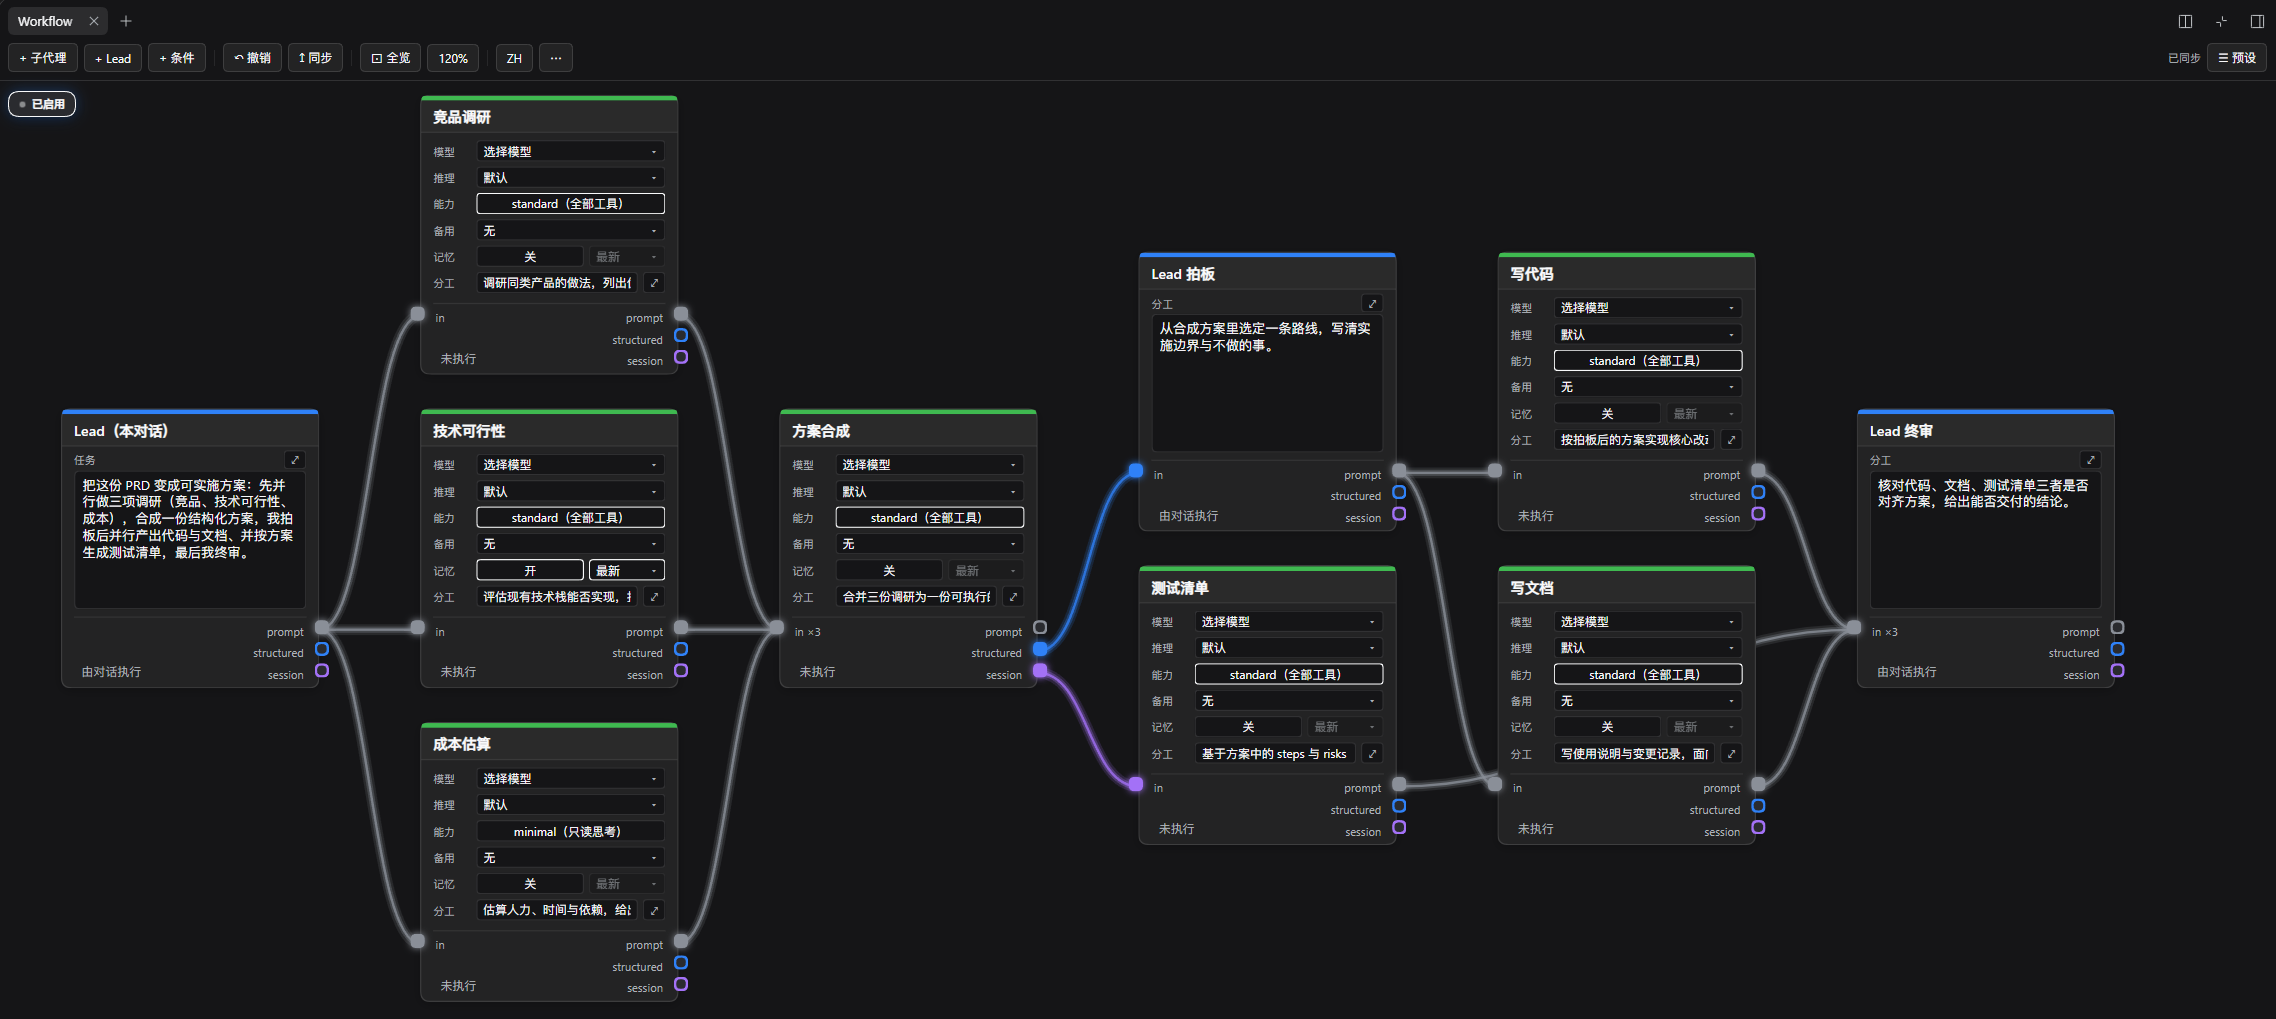
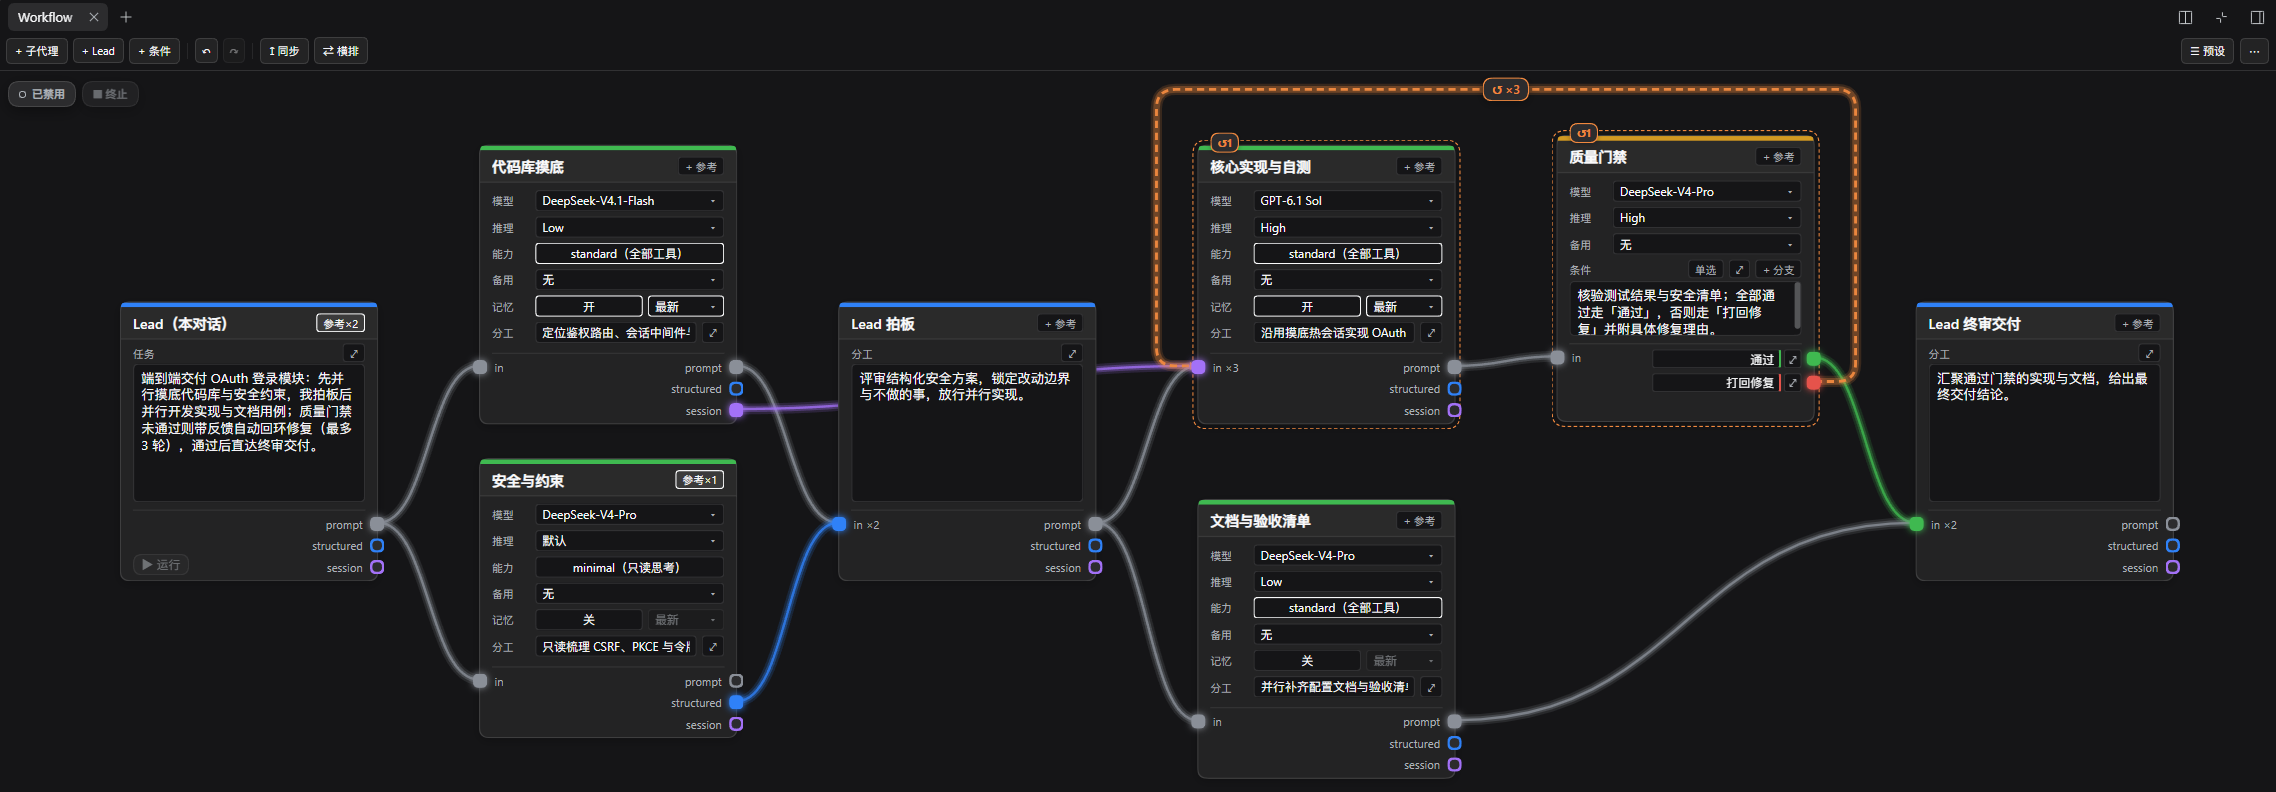
feat(ui): upgrade showcase loop template, keep stop pill always visible & refresh hero screenshots

diff --git a/client.js b/client.js
@@ -1126,17 +1126,25 @@ window.__ModuleLoader__.load({
       };
     }
 
-    /** Compute unified Stop button visibility, label and tooltip across running & waitingLead states. */
+    /** Compute unified Stop button state across idle, running & waitingLead modes. */
     function stopButtonState({ sessionRunning, runningNodesCount, waitingLead, triggering, stopping, lang }) {
       const en = lang === 'en';
       const hasRunning = Boolean(sessionRunning || triggering || Number(runningNodesCount) > 0);
       const hasWaiting = Boolean(waitingLead);
       if (!hasRunning && !hasWaiting) {
-        return { visible: false, disabled: true, mode: 'idle', label: '', title: '' };
+        return {
+          visible: true,
+          active: false,
+          disabled: true,
+          mode: 'idle',
+          label: en ? '⏹ Stop' : '⏹ 终止',
+          title: en ? 'No running or paused workflow to stop' : '当前没有运行中或等待拍板的任务',
+        };
       }
       const mode = hasRunning ? 'running' : 'waiting';
       return {
         visible: true,
+        active: true,
         disabled: Boolean(stopping),
         mode,
         label: stopping
@@ -2057,50 +2065,100 @@ window.__ModuleLoader__.load({
         {
           id: 'lead', kind: 'lead', label: 'Lead', y: 0,
           task: en
-            ? 'Implement the requested change and verify with tests: if checks fail, automatically loop back with feedback to fix (up to 3 retries), then hand off to me for final review.'
-            : '实现目标功能并跑测试验证：若测试或检查不通过，自动带着失败原因回环修改（最多 3 次），全部通过后交我终审交付。',
+            ? 'Ship OAuth login end-to-end: scan codebase and security constraints in parallel, pause for my sign-off, build core code and tests/docs concurrently with an automated retry loop if checks fail, then deliver to final review.'
+            : '端到端交付 OAuth 登录模块：先并行摸底代码库与安全约束，我拍板后并行开发实现与文档用例；质量门禁未通过则带反馈自动回环修复（最多 3 轮），通过后直达终审交付。',
+          refs: ['AGENTS.md', 'docs/auth-spec.md'],
           provider: '', model: '', role: '',
         },
         {
-          id: 'lp_impl', kind: 'agent', y: 0,
-          label: en ? 'Implement' : '编写实现',
-          provider: '', model: '', reasoning: '', preset: 'standard', keepSession: false,
+          id: 'lp_scan', kind: 'agent', y: 0,
+          label: en ? 'Codebase Scan' : '代码库摸底',
+          provider: '', model: '', reasoning: '', preset: 'standard', keepSession: true,
           role: en
-            ? 'Implement the requested change cleanly. When invoked on a retry round, focus directly on fixing the reported issues and list modified files.'
-            : '按需求完成代码或文档实现；若处于回环修正轮次，针对打回理由直接定点修复并列出改动清单。',
+            ? 'Locate auth routes, session middleware and conventions; keep warm session for Core Implement.'
+            : '定位鉴权路由、会话中间件与工程约定，保留热会话供核心实现无缝续接。',
         },
         {
-          id: 'lp_test', kind: 'agent', y: 0,
-          label: en ? 'Test & Verify' : '测试与检查',
+          id: 'lp_risk', kind: 'agent', y: 100,
+          label: en ? 'Security Spec' : '安全与约束',
+          provider: '', model: '', reasoning: '', preset: 'minimal', keepSession: false,
+          refs: ['docs/security.md'],
+          role: en
+            ? 'Read-only threat check (CSRF, PKCE, token rotation); output structured JSON spec.'
+            : '只读梳理 CSRF、PKCE 与令牌轮换约束，输出结构化 JSON 方案。',
+        },
+        {
+          id: 'lp_signoff', kind: 'lead', y: 0,
+          label: en ? 'Lead Sign-Off' : 'Lead 拍板',
+          provider: '', model: '',
+          role: en
+            ? 'Review structured spec, confirm scope and non-goals, then release parallel delivery.'
+            : '评审结构化安全方案，锁定改动边界与不做的事，放行并行实现。',
+        },
+        {
+          id: 'lp_impl', kind: 'agent', y: 0,
+          label: en ? 'Core Implement' : '核心实现与自测',
+          provider: '', model: '', reasoning: '', preset: 'standard', keepSession: true,
+          role: en
+            ? 'Continue inside scan session to implement OAuth flow and run tests; on retry rounds fix reported defects directly.'
+            : '沿用摸底热会话实现 OAuth 流程并跑测试；若被打回则按反馈定点修复。',
+        },
+        {
+          id: 'lp_docs', kind: 'agent', y: 100,
+          label: en ? 'Docs & Checklist' : '文档与验收清单',
           provider: '', model: '', reasoning: '', preset: 'standard', keepSession: false,
           role: en
-            ? 'Run tests/lint/checks against the implementation and report exact pass/fail status, error logs, and remaining defects.'
-            : '对实现结果运行单测、构建或逐项核验，如实汇报通过情况、具体报错日志与遗留缺陷。',
+            ? 'Update config docs and acceptance checklist in parallel (never touch source files).'
+            : '并行补齐配置文档与验收清单（不改业务源码，与回环实现互不干扰）。',
         },
         {
           id: 'lp_gate', kind: 'condition', y: 0,
-          label: en ? 'Checks Passed?' : '是否通过？',
+          label: en ? 'Quality Gate' : '质量门禁',
           provider: '', model: '', reasoning: '', preset: 'minimal', keepSession: false,
+          branches: [
+            { id: 'true', label: en ? 'Pass' : '通过', when: en ? 'All tests and security checks passed' : '单测与安全核验全部通过' },
+            { id: 'false', label: en ? 'Fix Loop' : '打回修复', when: en ? 'Any test failed or defect remains' : '存在测试失败或未解决缺陷' },
+          ],
           role: en
-            ? 'Return pass=true only if all tests/checks passed with no unresolved defects; otherwise return pass=false with a concise, actionable fix reason.'
-            : '仅当测试与检查全部通过且无未解决缺陷时返回 true；否则返回 false，并在理由里写清下一轮需修复的具体问题。',
+            ? 'Verify test results and security checklist; route to Pass only when clean, otherwise return actionable fix feedback.'
+            : '核验测试结果与安全清单；全部通过走「通过」，否则走「打回修复」并附具体修复理由。',
         },
         {
           id: 'lp_final', kind: 'lead', y: 0,
-          label: en ? 'Lead Final Review' : 'Lead 终审',
+          label: en ? 'Lead Ship Gate' : 'Lead 终审交付',
           provider: '', model: '',
           role: en
-            ? 'Review the verified result (or the round-by-round summary if retries exhausted) and decide whether to ship or intervene.'
-            : '审阅最终通过的改动摘要（或回环达上限后的历次失败记录），确认交付或拍板下一步处理。',
+            ? 'Combine verified implementation and docs into final release summary.'
+            : '汇聚通过门禁的实现与文档，给出最终交付结论。',
         },
       ];
       const loopEdges = [
-        { id: 'lp1', from: 'lead', to: 'lp_impl', type: 'prompt' },
-        { id: 'lp2', from: 'lp_impl', to: 'lp_test', type: 'prompt' },
-        { id: 'lp3', from: 'lp_test', to: 'lp_gate', type: 'prompt' },
-        { id: 'lp4', from: 'lp_gate', to: 'lp_final', type: 'prompt', branch: 'true' },
-        { id: 'lp5', from: 'lp_gate', to: 'lp_impl', type: 'prompt', branch: 'false', loop: true, maxIterations: 3 },
+        { id: 'lp1', from: 'lead', to: 'lp_scan', type: 'prompt' },
+        { id: 'lp2', from: 'lead', to: 'lp_risk', type: 'prompt' },
+        { id: 'lp3', from: 'lp_scan', to: 'lp_signoff', type: 'prompt' },
+        { id: 'lp4', from: 'lp_risk', to: 'lp_signoff', type: 'structured' },
+        { id: 'lp5', from: 'lp_signoff', to: 'lp_impl', type: 'prompt' },
+        { id: 'lp6', from: 'lp_scan', to: 'lp_impl', type: 'session-ref' },
+        { id: 'lp7', from: 'lp_signoff', to: 'lp_docs', type: 'prompt' },
+        { id: 'lp8', from: 'lp_impl', to: 'lp_gate', type: 'prompt' },
+        { id: 'lp9', from: 'lp_gate', to: 'lp_final', type: 'prompt', branch: 'true' },
+        { id: 'lp10', from: 'lp_gate', to: 'lp_impl', type: 'prompt', branch: 'false', loop: true, maxIterations: 3 },
+        { id: 'lp11', from: 'lp_docs', to: 'lp_final', type: 'prompt' },
       ];
+      // Align the loop pair (lp_impl -> lp_gate) on the outer rail side (top in lr, right in tb)
+      // so the dashed loop frame and outer bypass arc never overlap the parallel bypass node lp_docs.
+      const loopLaid = layoutGraph(loopNodes, loopEdges, direction).map((n) => ({ ...n }));
+      const lpById = new Map(loopLaid.map((n) => [n.id, n]));
+      if (direction === 'tb') {
+        const leftX = Math.min(lpById.get('lp_impl').x, lpById.get('lp_docs').x);
+        const rightX = Math.max(lpById.get('lp_impl').x, lpById.get('lp_docs').x);
+        lpById.get('lp_docs').x = leftX;
+        lpById.get('lp_impl').x = rightX;
+        lpById.get('lp_gate').x = rightX;
+      } else {
+        lpById.get('lp_gate').y = lpById.get('lp_impl').y - 8;
+        lpById.get('lp_docs').y = Math.max(lpById.get('lp_docs').y, lpById.get('lp_gate').y + nodeHeight(lpById.get('lp_gate')) + 64);
+      }
       return [
         {
           id: 'tpl-swe',
@@ -2128,8 +2186,8 @@ window.__ModuleLoader__.load({
         },
         {
           id: 'tpl-loop',
-          name: en ? 'Retry Loop: Implement → Test ↺ Fix → Review' : '循环重试：实现 → 测试验收 ↺ 自动修复 → 终审',
-          nodes: layoutGraph(loopNodes, loopEdges, direction),
+          name: en ? 'Full Showcase: Parallel → Gate → Loop ↺ Fix → Ship' : '全功能回环：并行摸底 → 拍板 → 实现 ↺ 门禁 → 终审',
+          nodes: loopLaid,
           edges: loopEdges,
         },
       ];
@@ -5892,15 +5950,23 @@ window.__ModuleLoader__.load({
             stopBtn.visible && h('button', {
               type: 'button',
               disabled: stopBtn.disabled,
-              style: {
-                ...S.floatStop,
-                opacity: stopBtn.disabled ? 0.6 : 1,
-                cursor: stopBtn.disabled ? 'not-allowed' : 'pointer',
-              },
+              style: stopBtn.active
+                ? {
+                    ...S.floatStop,
+                    opacity: stopBtn.disabled ? 0.6 : 1,
+                    cursor: stopBtn.disabled ? 'not-allowed' : 'pointer',
+                  }
+                : {
+                    ...S.floatStop,
+                    border: '1px solid ' + C.border,
+                    color: C.dim,
+                    opacity: 0.55,
+                    cursor: 'not-allowed',
+                  },
               title: stopBtn.title,
-              onMouseEnter: (e) => { if (!stopBtn.disabled) e.currentTarget.style.background = 'rgba(229,83,75,0.18)'; },
+              onMouseEnter: (e) => { if (stopBtn.active && !stopBtn.disabled) e.currentTarget.style.background = 'rgba(229,83,75,0.18)'; },
               onMouseLeave: (e) => { e.currentTarget.style.background = C.elevated; },
-              onClick: () => { if (!stopBtn.disabled) stopWorkflow(); },
+              onClick: () => { if (stopBtn.active && !stopBtn.disabled) stopWorkflow(); },
             }, stopBtn.label),
           ),
           addMenu && (() => {
@@ -6336,7 +6402,7 @@ window.__ModuleLoader__.load({
                           }),
                           btn.label,
                         ),
-                        stopBtn.visible && h('button', {
+                        stopBtn.active && h('button', {
                           type: 'button',
                           disabled: stopBtn.disabled,
                           style: {

diff --git a/README.zh.md b/README.zh.md
@@ -103,7 +103,7 @@
 
 - 入口 Lead 的任务栏可填可不填；点卡片 **`▶ 运行`** 需已启用且任务非空，留空时也可直接在聊天框发送任务作为 `task` 传入。
 - 跑到中间 Lead 时，画布亮起 **`⏸ 待拍板`**（入口按钮同步变为 `⏸ 等待决策`）并交回主对话；回复后下游自动续跑到终审完成。
-- **一键统一终止（`⏹ 终止`）**：任务运行中或停在 **`⏸ 待拍板`** 状态时，画布左上角 `● 已启用` 旁和入口 Lead 卡片左下角均会自动显示红色 **`⏹ 终止`** 按钮——点一下即可并发中止主回合与全部运行中的子代理、解除等待拍板状态并保留已完成节点的缓存（聊天里也可直接要求取消，触发 `canvas_workflow({ cancel: true })`）。
+- **一键统一终止（`⏹ 终止`）**：画布左上角 `● 已启用` 旁常驻 **`⏹ 终止`** 按钮（空闲时为灰标禁用；任务运行中或停在 **`⏸ 待拍板`** 状态时亮红，同时入口 Lead 卡片左下角出现快捷 `⏹` 按钮）——点一下即可并发中止主回合与全部运行中的子代理、解除等待拍板状态并保留已完成节点的缓存（聊天里也可直接要求取消，触发 `canvas_workflow({ cancel: true })`）。
 - 同一对话重跑支持 `reset: true`；若画布含已产生历史会话的记忆节点，Agent 会在重跑前确认保留记忆还是清空记忆（`clearMemory: true`）。
 
 ![启用即跑、Lead 暂停拍板与自动续跑交付](docs/images/lead-pause-resume.gif)

diff --git a/README.md b/README.md
@@ -103,7 +103,7 @@ Press **`● ON`** at the top-left of the canvas, then either click **`▶ Run`*
 
 - If the entry Lead's task is blank, `▶ Run` stays disabled with a hint and you can still send your chat message directly as `task`.
 - At an intermediate **Lead** node, the canvas shows **`⏸ Ready`** (and Entry Lead shows `⏸ Awaiting Lead`) while handing control to chat; once you reply, downstream nodes resume automatically through the final Lead review.
-- **Unified `⏹ Stop` button**: Whenever a run is active or paused at **`⏸ Awaiting Lead`**, a red **`⏹ Stop`** button appears beside `● ON` and on the Entry Lead card — clicking it immediately cancels the root turn, interrupts all live subagents, clears any Lead pause, and preserves completed-node cache (you can also ask in chat to cancel via `canvas_workflow({ cancel: true })`).
+- **Unified `⏹ Stop` button**: Always visible beside `● ON` (muted when idle; lights up red alongside a compact `⏹` button on the Entry Lead card whenever a run is active or paused at **`⏸ Awaiting Lead`**) — clicking it immediately cancels the root turn, interrupts all live subagents, clears any Lead pause, and preserves completed-node cache (you can also ask in chat to cancel via `canvas_workflow({ cancel: true })`).
 - Re-running in the same chat supports `reset: true`; if any node has saved **Memory**, the agent confirms whether to keep memory or clear it (`clearMemory: true`).
 
 ![Auto-run enabled canvas, pause at Lead decision, and finish](docs/images/lead-pause-resume.gif)

diff --git a/docs/DETAIL.md b/docs/DETAIL.md
@@ -81,8 +81,7 @@ run), `cancel: true` (cleanly stop an active or paused `need-lead` run),
 failed/target segments plus downstream), and `clearMemory: true` (forget saved
 `keepSession` memories). While enabled, a per-session runtime context notifies
 the agent automatically. While running or paused at an intermediate Lead node,
-a unified red **`⏹ Stop`** button appears beside `● ON` and on the Entry Lead
-card to interrupt all running subagents, cancel the root turn, and clear any
+a unified **`⏹ Stop`** button stays visible beside `● ON` (muted when idle, lighting up red alongside a compact `⏹` on the Entry Lead card while running or paused at an intermediate Lead) to interrupt all running subagents, cancel the root turn, and clear any
 Lead pause via `/canvas-stop`. Intermediate Lead nodes pause with
 `status: "need-lead"` and report `decisions` / `branchSkipped` / `failed` /
 `emptyOutputs` plus `session` handovers and merged `refs`; a terminal Lead
